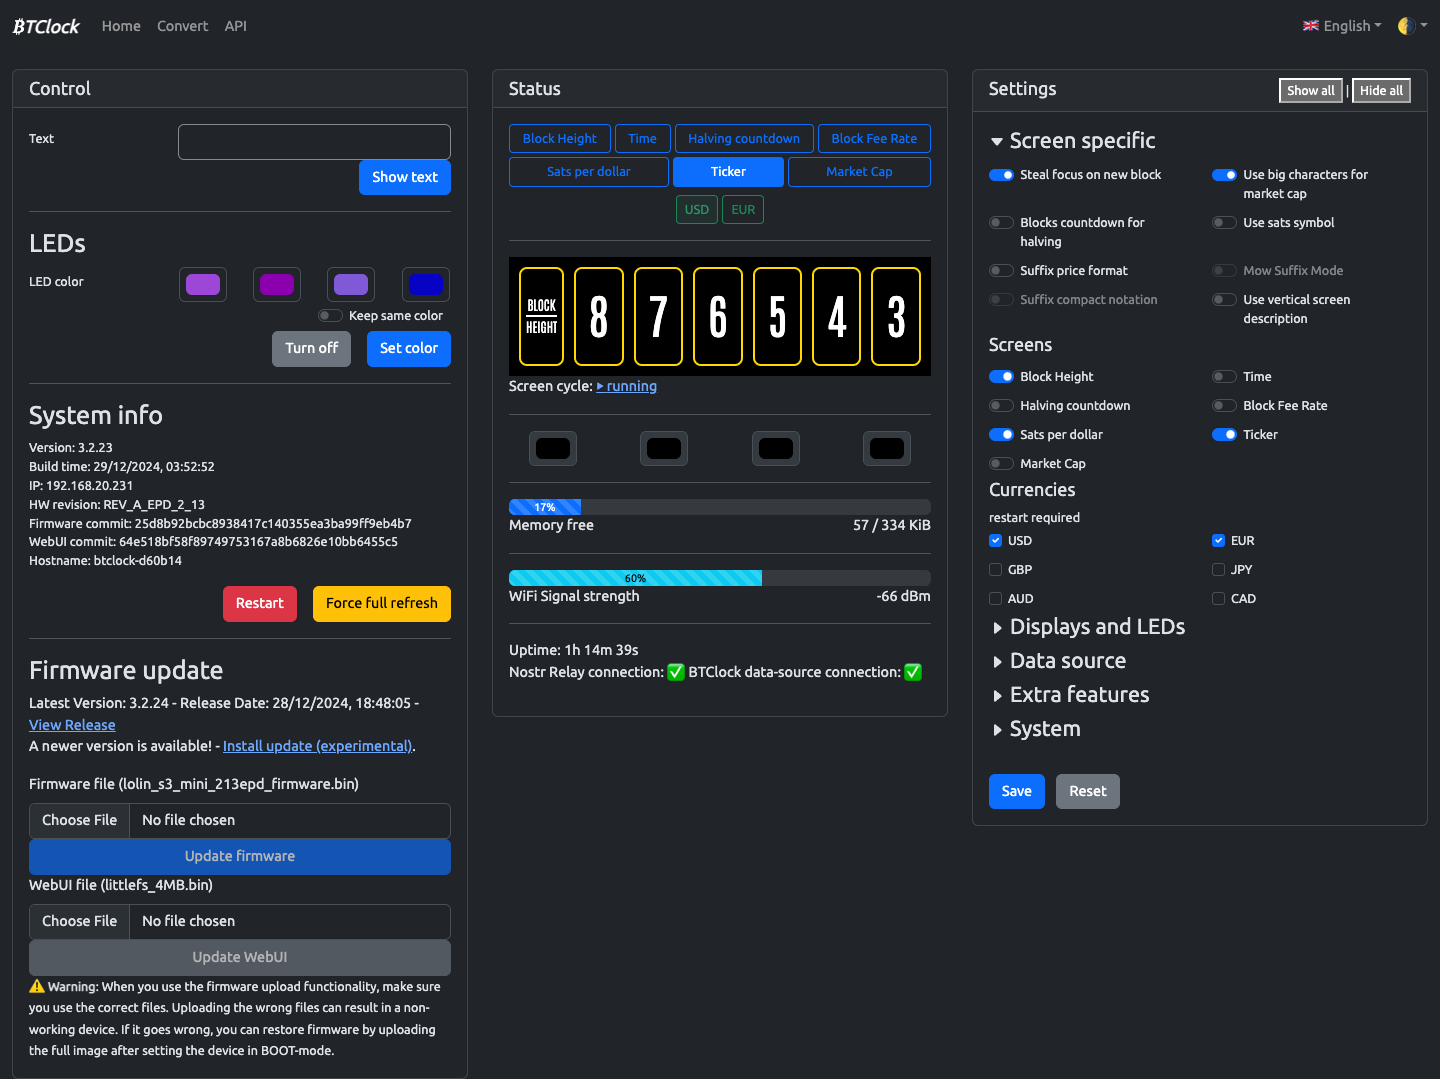
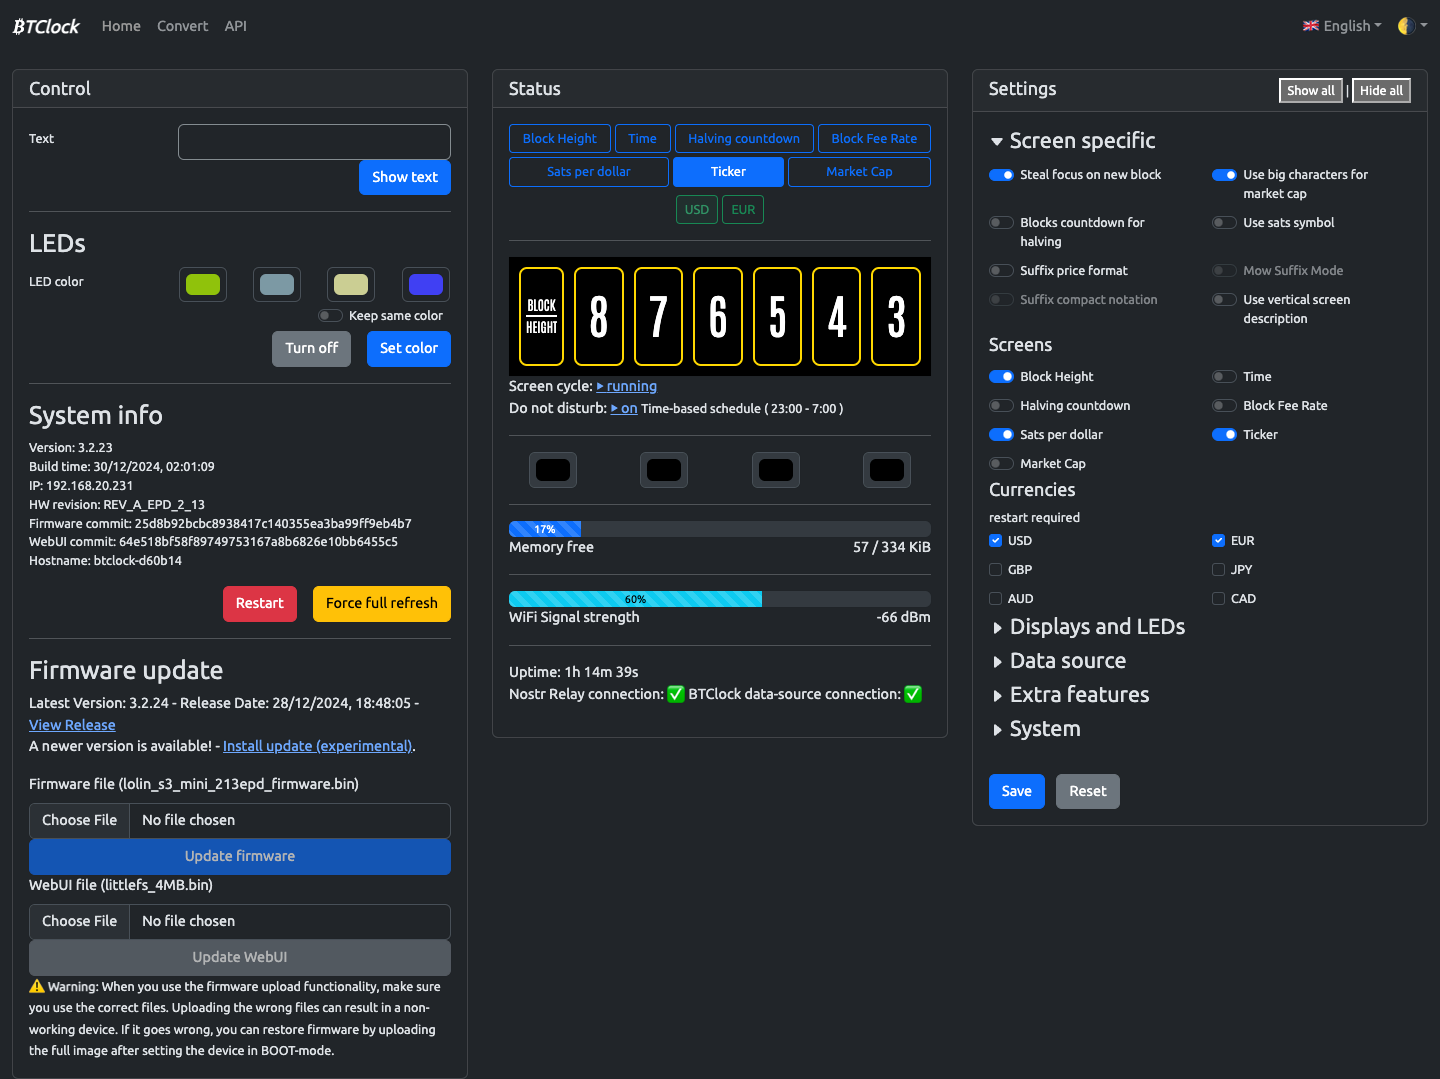
Add do not disturb mode

diff --git a/src/lib/components/settings/ExtraFeaturesSettings.svelte b/src/lib/components/settings/ExtraFeaturesSettings.svelte
@@ -69,6 +69,64 @@
 		bind:isOpen
 		defaultOpen={false}
 	>
+		<!--- Time based do not disturb settings -->
+		<SettingsSwitch
+			id="timeBasedDnd"
+			label={$_('section.settings.timeBasedDnd')}
+			bind:checked={$settings.dnd.timeBasedEnabled}
+			size={$uiSettings.inputSize}
+		/>
+		{#if $settings.dnd.timeBasedEnabled}
+			<Row>
+				<Col>
+					<SettingsInput
+						id="dndStartHour"
+						type="number"
+						min="0"
+						max="23"
+						label={$_('section.settings.dndStartHour')}
+						bind:value={$settings.dnd.startHour}
+						size={$uiSettings.inputSize}
+					/>
+				</Col>
+				<Col>
+					<SettingsInput
+						id="dndStartMinute"
+						type="number"
+						min="0"
+						max="59"
+						label={$_('section.settings.dndStartMinute')}
+						bind:value={$settings.dnd.startMinute}
+						size={$uiSettings.inputSize}
+					/>
+				</Col>
+			</Row>
+			<Row>
+				<Col>
+					<SettingsInput
+						id="dndEndHour"
+						type="number"
+						min="0"
+						max="23"
+						label={$_('section.settings.dndEndHour')}
+						bind:value={$settings.dnd.endHour}
+						size={$uiSettings.inputSize}
+					/>
+				</Col>
+				<Col>
+					<SettingsInput
+						id="dndEndMinute"
+						type="number"
+						min="0"
+						max="59"
+						label={$_('section.settings.dndEndMinute')}
+						bind:value={$settings.dnd.endMinute}
+						size={$uiSettings.inputSize}
+					/>
+				</Col>
+			</Row>
+		{/if}
+
 		<!-- BitAxe Settings -->
 		{#if 'bitaxeEnabled' in $settings}
 			<Row class="mb-3">

diff --git a/src/routes/Status.svelte b/src/routes/Status.svelte
@@ -97,6 +97,16 @@
 		}
 	};
 
+	const toggleDoNotDisturb = (currentStatus: boolean) => (e: Event) => {
+		e.preventDefault();
+		console.log(currentStatus);
+		if (!currentStatus) {
+			fetch(`${PUBLIC_BASE_URL}/api/dnd/enable`);
+		} else {
+			fetch(`${PUBLIC_BASE_URL}/api/dnd/disable`);
+		}
+	};
+
 	export let xs = 12;
 	export let sm = xs;
 	export let md = sm;
@@ -185,7 +195,27 @@
 							>{#if $status.timerRunning}&#9205; {$_('timer.running')}{:else}&#9208; {$_(
 									'timer.stopped'
 								)}{/if}</a
+						><br />
+
+						{$_('section.status.doNotDisturb')}:
+						<a
+							id="dndStatusText"
+							href={'#'}
+							style="cursor: pointer"
+							tabindex="0"
+							role="button"
+							aria-pressed="false"
+							on:click={toggleDoNotDisturb($status.dnd?.enabled)}
 						>
+							{#if $status.dnd?.active}&#9205; {$_('on')}{:else}&#9208; {$_('off')}{/if}</a
+						>
+						<small>
+							{#if $status.dnd?.timeBasedEnabled}
+								{$_('section.status.timeBasedDnd')} ( {$settings.dnd
+									.startHour}:{$settings.dnd.startMinute.toString().padStart(2, '0')} - {$settings
+									.dnd.endHour}:{$settings.dnd.endMinute.toString().padStart(2, '0')} )
+							{/if}
+						</small>
 					{/if}
 				{/if}
 				<hr />

diff --git a/tests/shared.ts b/tests/shared.ts
@@ -22,7 +22,14 @@ export const statusJson = {
 		{ red: 0, green: 0, blue: 0, hex: '#000000' }
 	],
 	isUpdating: true,
-	isFake: true
+	isFake: true,
+	dnd: {
+		enabled: true,
+		timeBasedEnabled: true,
+		startTime: '23:00',
+		endTime: '7:00',
+		active: true
+	}
 };
 
 export const settingsJson = {
@@ -108,6 +115,14 @@ export const settingsJson = {
 		'ckpool',
 		'eu_ckpool'
 	],
+	dnd: {
+		enabled: false,
+		timeBasedEnabled: true,
+		startHour: 23,
+		startMinute: 0,
+		endHour: 7,
+		endMinute: 0
+	},
 	availableFonts: ['antonio', 'oswald'],
 	invertedColor: false,
 	isLoaded: true,
